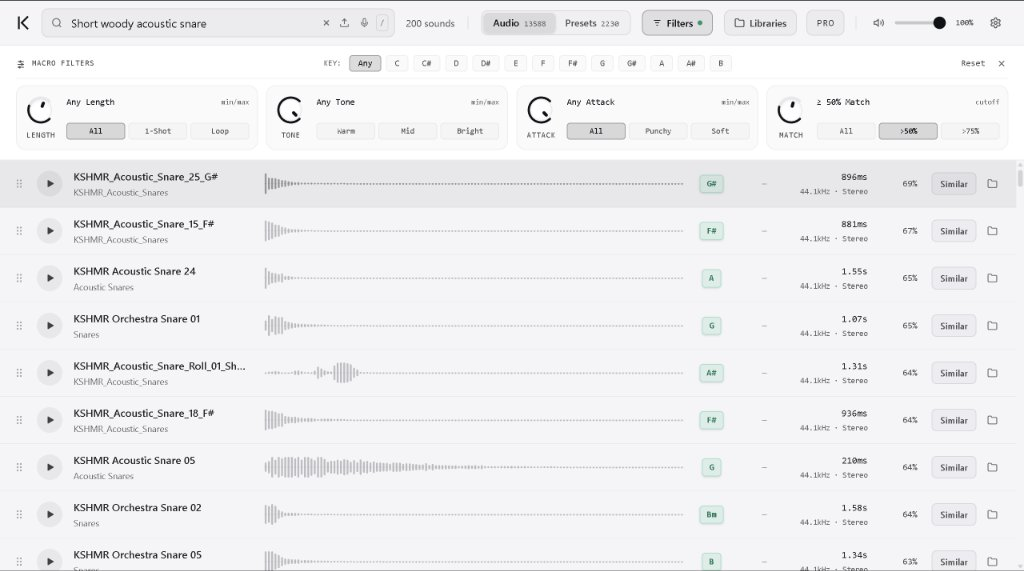
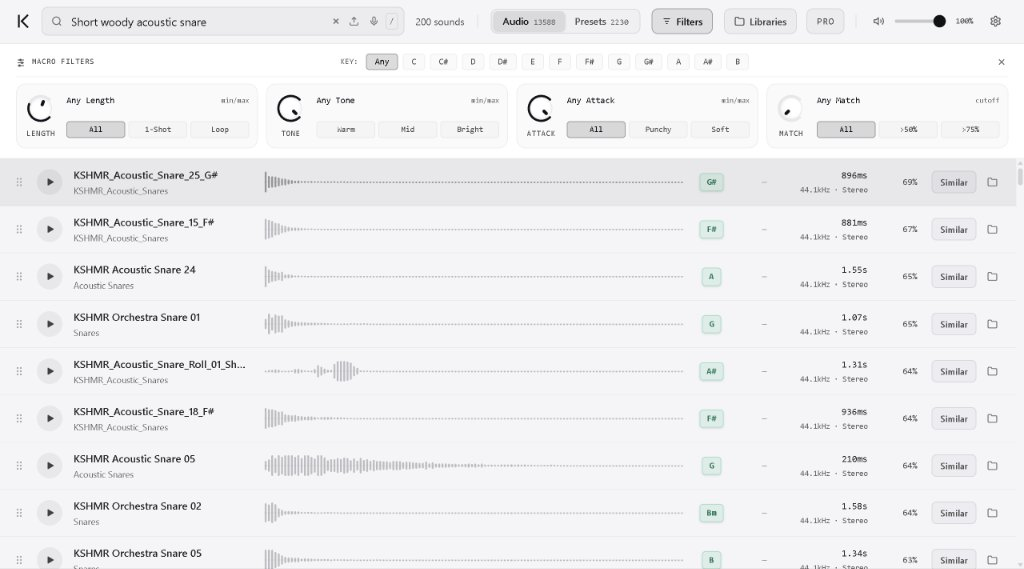
Streamline carousel to 3 slides, replace macro screenshot with updated capture, and remove redundant results slide

diff --git a/index.html b/index.html
@@ -123,7 +123,7 @@
             <div class="carousel-viewport">
               <div class="carousel-track">
                 <!-- Slide 1: Home / Natural Search -->
-                <figure class="carousel-slide active" role="group" aria-roledescription="slide" aria-label="1 of 4: Search interface" data-caption="Natural sound search across local sample libraries and synthesizer patches.">
+                <figure class="carousel-slide active" role="group" aria-roledescription="slide" aria-label="1 of 3: Search interface" data-caption="Natural sound search across local sample libraries and synthesizer patches.">
                   <a href="https://klang.vigamai.com/" target="_blank" rel="noopener noreferrer" class="image-link" aria-label="Open KLANG product page">
                     <img
                       src="assets/klang-light-search.png"
@@ -136,26 +136,12 @@
                   </a>
                 </figure>
 
-                <!-- Slide 2: Search Results -->
-                <figure class="carousel-slide" role="group" aria-roledescription="slide" aria-label="2 of 4: Search results" data-caption="Instant similarity ranking with real-time waveform display and harmonic key detection.">
-                  <a href="https://klang.vigamai.com/" target="_blank" rel="noopener noreferrer" class="image-link" aria-label="Open KLANG product page">
-                    <img
-                      src="assets/klang-light-results.jpg"
-                      alt="KLANG sample search results list showing matching acoustic snares with waveforms and musical keys"
-                      class="carousel-image"
-                      width="1920"
-                      height="1080"
-                      loading="lazy"
-                    >
-                  </a>
-                </figure>
-
-                <!-- Slide 3: Acoustic Macros -->
-                <figure class="carousel-slide" role="group" aria-roledescription="slide" aria-label="3 of 4: Macro filters" data-caption="Acoustic macro filters for dialing in envelope duration, timbre, and transient attack.">
+                <!-- Slide 2: Acoustic Macros & Search Results -->
+                <figure class="carousel-slide" role="group" aria-roledescription="slide" aria-label="2 of 3: Macro filters" data-caption="Acoustic macro filters for dialing in envelope duration, timbre, and transient attack.">
                   <a href="https://klang.vigamai.com/" target="_blank" rel="noopener noreferrer" class="image-link" aria-label="Open KLANG product page">
                     <img
                       src="assets/klang-light-macros.jpg"
-                      alt="KLANG macro filter panel expanded with rotary dials for length, tone, attack, and match threshold"
+                      alt="KLANG macro filter panel with rotary dials for length, tone, attack, match threshold and acoustic snare results"
                       class="carousel-image"
                       width="1920"
                       height="1080"
@@ -164,8 +150,8 @@
                   </a>
                 </figure>
 
-                <!-- Slide 4: Preset Inspection -->
-                <figure class="carousel-slide" role="group" aria-roledescription="slide" aria-label="4 of 4: Preset inspection" data-caption="Synthesizer patch inspection with amplitude envelopes, filter parameters, and direct drag-and-drop to DAW.">
+                <!-- Slide 3: Preset Inspection -->
+                <figure class="carousel-slide" role="group" aria-roledescription="slide" aria-label="3 of 3: Preset inspection" data-caption="Synthesizer patch inspection with amplitude envelopes, filter parameters, and direct drag-and-drop to DAW.">
                   <a href="https://klang.vigamai.com/" target="_blank" rel="noopener noreferrer" class="image-link" aria-label="Open KLANG product page">
                     <img
                       src="assets/klang-light-preset.png"
@@ -191,9 +177,8 @@
               <div class="carousel-controls">
                 <div class="carousel-indicators" role="tablist" aria-label="Select slide">
                   <button type="button" class="indicator-btn active" role="tab" aria-selected="true" aria-label="Slide 1: Search" data-slide-index="0">01</button>
-                  <button type="button" class="indicator-btn" role="tab" aria-selected="false" aria-label="Slide 2: Results" data-slide-index="1">02</button>
-                  <button type="button" class="indicator-btn" role="tab" aria-selected="false" aria-label="Slide 3: Macros" data-slide-index="2">03</button>
-                  <button type="button" class="indicator-btn" role="tab" aria-selected="false" aria-label="Slide 4: Preset" data-slide-index="3">04</button>
+                  <button type="button" class="indicator-btn" role="tab" aria-selected="false" aria-label="Slide 2: Macros" data-slide-index="1">02</button>
+                  <button type="button" class="indicator-btn" role="tab" aria-selected="false" aria-label="Slide 3: Preset" data-slide-index="2">03</button>
                 </div>
 
                 <div class="carousel-arrows">
